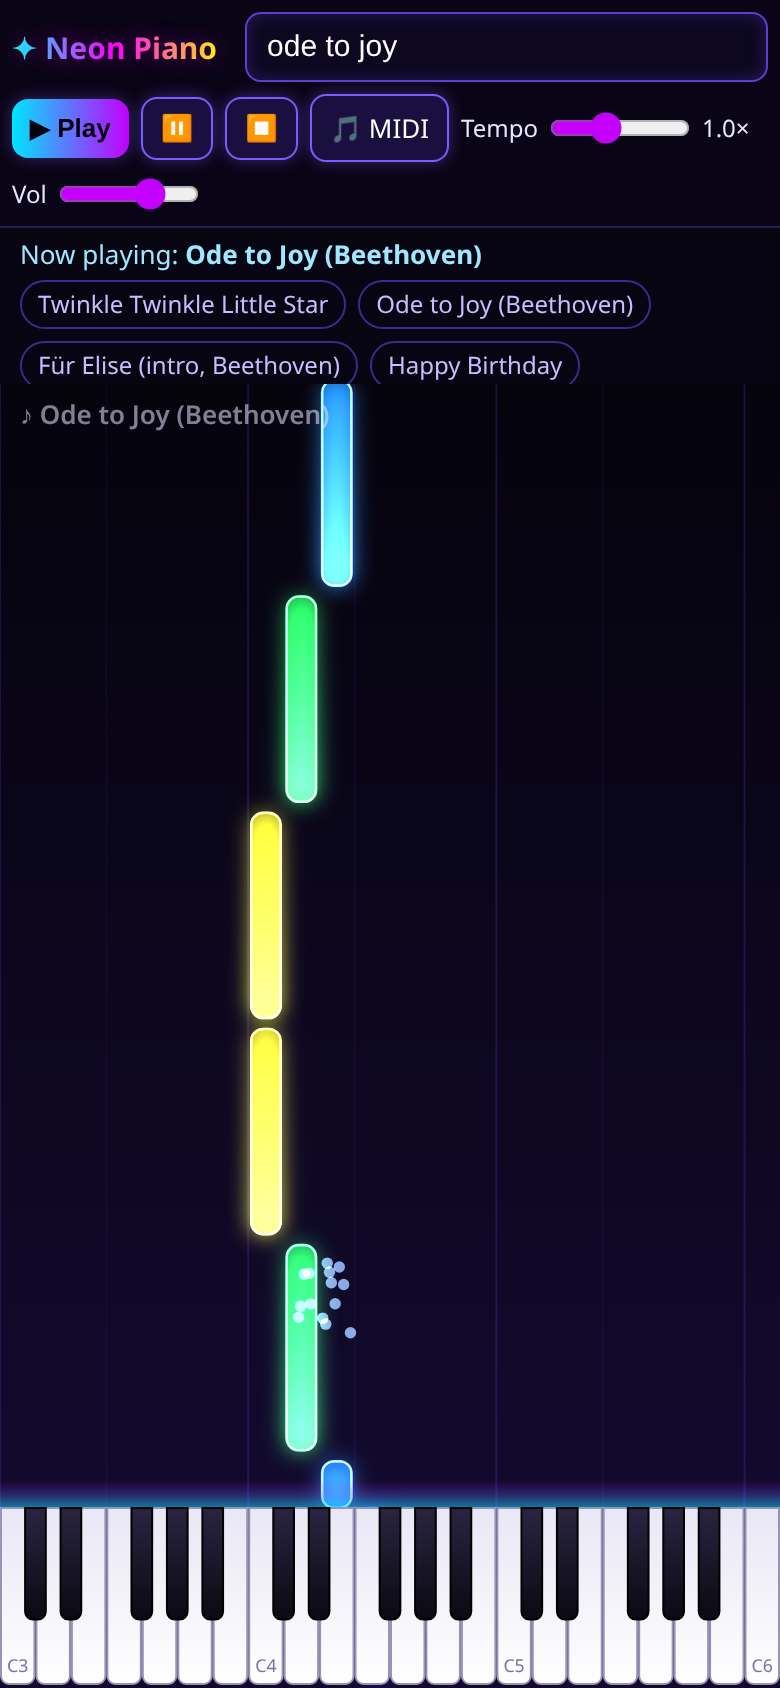
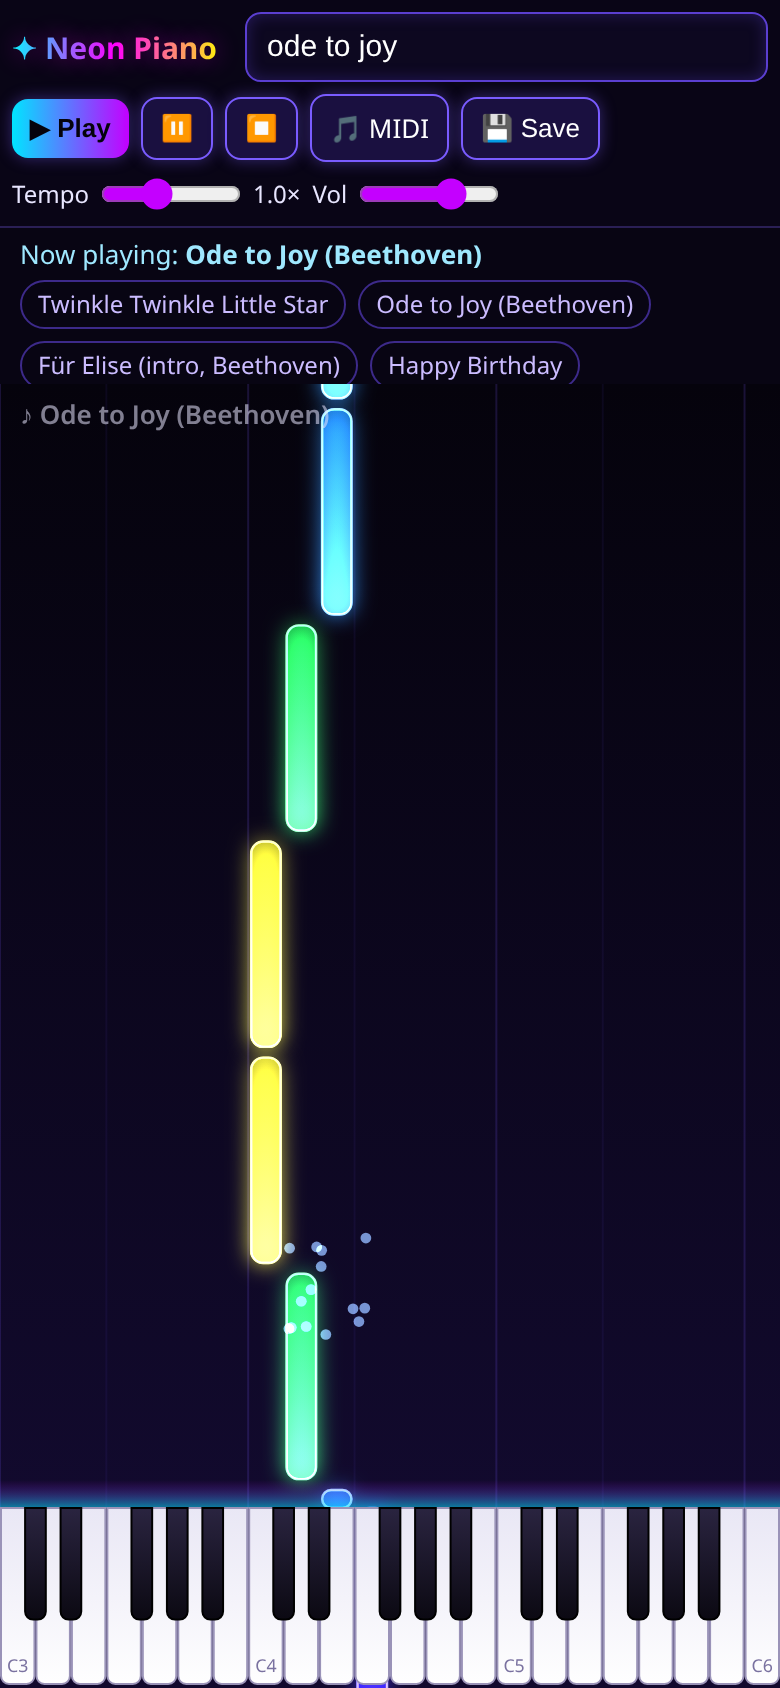
Add My Songs library (MIDI drag-drop, saved notes, localStorage)

diff --git a/app.js b/app.js
@@ -66,11 +66,14 @@ function parseABC(str){ let L=0.5, bpm=120, key=''; const body=[];
       for(const c of m[3]) base += c==','?-12:12; base += m[1]=='^'?1:m[1]=='_'?-1:0; out.push({m:base,t,d:len*spb*0.95}); }
     t += len*spb; }
   return out.length?out:null; }
+const LS='neonPiano.mySongs';
+function getMine(){ try{ return JSON.parse(localStorage.getItem(LS))||[]; }catch(e){ return []; } }
+function setMine(a){ localStorage.setItem(LS,JSON.stringify(a)); }
 function norm(s){ return s.toLowerCase().normalize('NFD').replace(/[\u0300-\u036f]/g,'').replace(/[^a-z0-9 ]/g,' ').replace(/\s+/g,' ').trim(); }
 function lev(a,b){ const d=Array.from({length:a.length+1},(_,i)=>[i]); for(let j=1;j<=b.length;j++)d[0][j]=j;
   for(let i=1;i<=a.length;i++)for(let j=1;j<=b.length;j++)d[i][j]=Math.min(d[i-1][j]+1,d[i][j-1]+1,d[i-1][j-1]+(a[i-1]==b[j-1]?0:1)); return d[a.length][b.length]; }
 function findSong(q){ q = norm(q); if(!q) return null; let best=null, bs=0;
-  for(const s of SONGS){ for(const cand of [s.name,...s.alias].map(norm)){
+  for(const s of [...getMine().map(o=>({...o,alias:[],mine:true})),...SONGS]){ for(const cand of [s.name,...s.alias].map(norm)){
     let sc = cand.includes(q)||q.includes(cand) ? 1 : 0;
     if(!sc){ const qw=q.split(' '), cw=cand.split(' '); const hits=qw.filter(w=>cw.some(c=>lev(w,c)<=Math.max(1,Math.floor(c.length/4)))).length; sc = 0.9*hits/Math.max(qw.length,1); }
     if(!sc) sc = 1 - lev(q,cand)/Math.max(q.length,cand.length);
@@ -79,11 +82,11 @@ function findSong(q){ q = norm(q); if(!q) return null; let best=null, bs=0;
 function load(name, notes){ notes.sort((a,b)=>a.t-b.t); song={name,notes}; pos=-1.2; nextIdx=0; layout(); }
 function msg(t){ $('msg').innerHTML = t; }
 function fromInput(){ const q=$('song').value.trim(); if(!q){ msg('Type a song name or some notes first ✨'); return false; }
-  let n = parseTokens(q,100); if(n){ load('Your notes',n); msg('Playing your notes 🎹'); return true; }
+  let n = parseTokens(q,100); if(n){ load('Your notes',n); msg('Playing your notes 🎹 Press 💾 Save to keep them in My Songs.'); return true; }
   if(/[A-Ga-g]/.test(q) && (/^X:|\nK:|^[\^_=A-Ga-gzZ,'\d\/\s|]+$/.test(q)) && !/\s[a-z]{3,}/i.test(' '+q.replace(/^[A-Za-z]:.*$/gm,''))){
     n = parseABC(q); if(n){ load('ABC tune',n); msg('Playing ABC notation 🎼'); return true; } }
-  const s = findSong(q); if(s){ load(s.name, parseTokens(s.m, s.bpm)); msg(`Now playing: <b>${s.name}</b>`); return true; }
-  msg(`Sorry, I don't have “${q.replace(/</g,'&lt;')}” yet 🎵 Try: ${SONGS.slice(0,6).map(s=>s.name).join(', ')}… or type notes like <code>C4 D4 E4:2</code>, or load a MIDI file.`); return false; }
+  const s = findSong(q); if(s){ load(s.name, s.mine? s.notes.map(n=>({...n})) : parseTokens(s.m, s.bpm)); msg(`Now playing: <b>${s.name.replace(/</g,'&lt;')}</b>${s.mine?' (My Songs)':''}`); return true; }
+  msg(`Sorry, I don't have “${q.replace(/</g,'&lt;')}” yet 🎵 Try: ${SONGS.slice(0,6).map(s=>s.name).join(', ')}… or type notes like <code>C4 D4 E4:2</code>, or drop in your own MIDI file and 💾 Save it to My Songs.`); return false; }
 
 // ---------- MIDI file ----------
 function parseMidi(buf){ const d=new DataView(buf); let p=0; const str=n=>{let s='';for(let i=0;i<n;i++)s+=String.fromCharCode(d.getUint8(p+i));p+=n;return s;};
@@ -103,7 +106,7 @@ function parseMidi(buf){ const d=new DataView(buf); let p=0; const str=n=>{let s
   tempos.sort((a,b)=>a.tick-b.tick); const sec=tk=>{let s=0,prev=0,us=500000; for(const t of tempos){ if(t.tick>=tk) break; s+=(t.tick-prev)*us/div/1e6; prev=t.tick; us=t.us; } return s+(tk-prev)*us/div/1e6; };
   return ev.map(e=>({m:e.m,t:sec(e.s),d:Math.max(0.08,sec(e.e)-sec(e.s)),v:e.v})); }
 $('file').onchange = async e => { const f=e.target.files[0]; if(!f) return; try{ const n=parseMidi(await f.arrayBuffer()); if(!n.length) throw 'No notes found';
-  load(f.name,n); msg(`Loaded MIDI: <b>${f.name}</b> (${n.length} notes)`); start(); } catch(err){ msg('Could not read that MIDI file: '+err); } e.target.value=''; };
+  load(f.name,n); msg(`Loaded MIDI: <b>${f.name}</b> (${n.length} notes)`); start(); saveCurrent(f.name.replace(/\.midi?$/i,'')); } catch(err){ msg('Could not read that MIDI file: '+err); } e.target.value=''; };
 
 // ---------- controls ----------
 function start(){ audio(); playing=true; last=performance.now(); $('pause').textContent='⏸'; }
@@ -112,7 +115,26 @@ $('song').onkeydown = e => { if(e.key==='Enter'){ e.preventDefault(); $('play').
 $('pause').onclick = () => { if(!song.notes.length) return; if(playing){playing=false;$('pause').textContent='▶';} else start(); };
 $('stop').onclick = () => { playing=false; pos=-1.2; nextIdx=0; $('pause').textContent='⏸'; };
 $('tempo').oninput = e => { tempo=+e.target.value; $('tv').textContent=tempo.toFixed(2).replace(/0$/,'')+'×'; };
-const lib=$('lib'); SONGS.forEach(s=>{ const b=document.createElement('span'); b.textContent=s.name; b.onclick=()=>{ $('song').value=s.name; $('play').click(); }; lib.appendChild(b); });
+const lib=$('lib');
+function renderLib(){ lib.innerHTML=''; const mine=getMine();
+  if(mine.length){ const h=document.createElement('b'); h.textContent='My Songs'; lib.appendChild(h);
+    mine.forEach(s=>{ const b=document.createElement('span'); b.className='mine'; b.textContent=s.name; const x=document.createElement('i'); x.textContent='✕'; x.title='Delete';
+      x.onclick=e=>{ e.stopPropagation(); if(confirm('Delete “'+s.name+'” from My Songs?')){ setMine(getMine().filter(o=>o.name!==s.name)); renderLib(); } };
+      b.appendChild(x); b.onclick=()=>{ $('song').value=s.name; $('play').click(); }; lib.appendChild(b); });
+    const h2=document.createElement('b'); h2.textContent='Built-in (public domain)'; lib.appendChild(h2); }
+  SONGS.forEach(s=>{ const b=document.createElement('span'); b.textContent=s.name; b.onclick=()=>{ $('song').value=s.name; $('play').click(); }; lib.appendChild(b); }); }
+function saveCurrent(def){ if(!song.notes.length){ msg('Load a MIDI file or type notes first, then press 💾 Save.'); return; }
+  const name=(prompt('Name this song for My Songs:', def||song.name)||'').trim(); if(!name) return;
+  const notes=song.notes.map(n=>({m:n.m,t:+n.t.toFixed(3),d:+n.d.toFixed(3),...(n.v!=null?{v:+n.v.toFixed(2)}:{})}));
+  try{ setMine([...getMine().filter(o=>o.name.toLowerCase()!==name.toLowerCase()),{name,notes}]); song.name=name; renderLib(); msg(`Saved <b>${name.replace(/</g,'&lt;')}</b> to My Songs 💾`); }
+  catch(e){ msg('Could not save (browser storage full?)'); } }
+$('save').onclick=()=>saveCurrent();
+renderLib();
+// drag & drop MIDI anywhere
+addEventListener('dragover',e=>{e.preventDefault();document.body.classList.add('drag');});
+addEventListener('dragleave',e=>{ if(!e.relatedTarget) document.body.classList.remove('drag'); });
+addEventListener('drop',async e=>{ e.preventDefault(); document.body.classList.remove('drag'); const f=e.dataTransfer.files[0]; if(!f) return;
+  try{ const n=parseMidi(await f.arrayBuffer()); if(!n.length) throw 'No notes found'; load(f.name.replace(/\.midi?$/i,''),n); start(); saveCurrent(); }catch(err){ msg('Could not read that MIDI file: '+err); } });
 
 // mouse/touch on keys
 function keyAt(x,y){ if(y<H-kbH) return null; const yy=y-(H-kbH);

diff --git a/index.html b/index.html
@@ -18,6 +18,8 @@ input[type=range]{width:90px;accent-color:#c400ff}
 canvas{position:absolute;inset:0;width:100%;height:100%;display:block;touch-action:none}
 #lib{display:flex;flex-wrap:wrap;gap:6px;padding:0 10px 6px;background:rgba(10,6,25,.6);z-index:2}
 #lib span{font-size:12px;padding:3px 8px;border-radius:999px;border:1px solid #3d2a8a;cursor:pointer;color:#cbbcff}
+#lib span.mine{border-color:#ff4fd8;color:#ffc4f3}#lib span i{font-style:normal;margin-left:6px;opacity:.7}#lib span i:hover{color:#f55;opacity:1}#lib b{font-size:12px;color:#ff4fd8;width:100%}
+body.drag #stage{outline:3px dashed #ff4fd8;outline-offset:-8px}
 #lib span:hover{border-color:#0ff;color:#0ff}
 #file{display:none}
 @media (max-width:640px){h1{font-size:15px}header{gap:6px;padding:6px}button,.btn{padding:7px 9px;font-size:13px}input[type=range]{width:70px}#lib{max-height:52px;overflow:auto}}
@@ -30,6 +32,7 @@ canvas{position:absolute;inset:0;width:100%;height:100%;display:block;touch-acti
 <button id="pause">⏸</button>
 <button id="stop">⏹</button>
 <label class="btn" for="file">🎵 MIDI</label><input id="file" type="file" accept=".mid,.midi">
+<button id="save" title="Save the loaded song to My Songs">💾 Save</button>
 <label>Tempo <input id="tempo" type="range" min="0.4" max="2" step="0.05" value="1"><span id="tv">1.0×</span></label>
 <label>Vol <input id="vol" type="range" min="0" max="1" step="0.01" value="0.7"></label>
 </header>

diff --git a/README.md b/README.md
@@ -14,6 +14,12 @@ A single-page, Synthesia-style neon piano that runs in the browser. It has no bu
 - If the app doesn't know a song name, it shows a friendly message suggesting songs it does have.
 - Deep link: `index.html?song=ode+to+joy&seek=2`
 
+## My Songs (your own music)
+The app ships only public-domain or traditional melodies. For anything else, such as songs by the Beatles or music from Final Fantasy or Studio Ghibli, **you supply your own files**:
+- Drag a `.mid` file onto the page or use **🎵 MIDI**. The app plays it and asks you for a name.
+- Or paste notes or ABC into the box, press Play, then press **💾 Save**.
+Saved songs are kept in your browser's `localStorage` (key `neonPiano.mySongs`). They show up under **My Songs**, the song-name box searches them, and you can delete one with ✕. Nothing is uploaded anywhere. Please use only files you have the right to use.
+
 ## Run
 ```
 python3 -m http.server 8080   # then open http://localhost:8080
